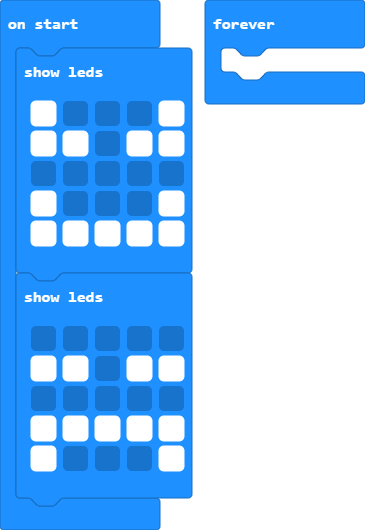
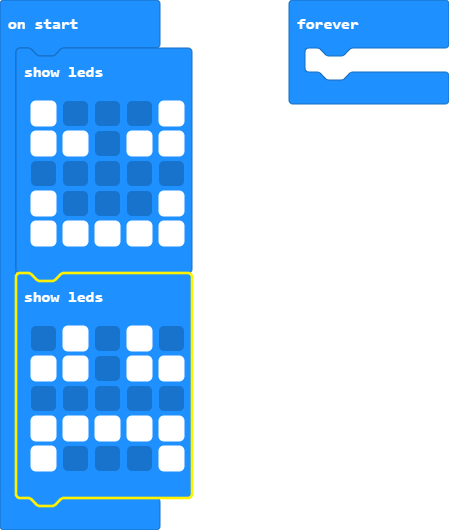
Update main.blocks, main.ts

Changed region(s): [[0.0301, 0.0, 0.8137, 1.0], [0.0, 0.0302, 0.211, 0.0604]]

diff --git a/main.ts b/main.ts
@@ -6,7 +6,7 @@ basic.showLeds(`
     # # # # #
     `)
 basic.showLeds(`
-    . . . . .
+    . # . # .
     # # . # #
     . . . . .
     # # # # #
